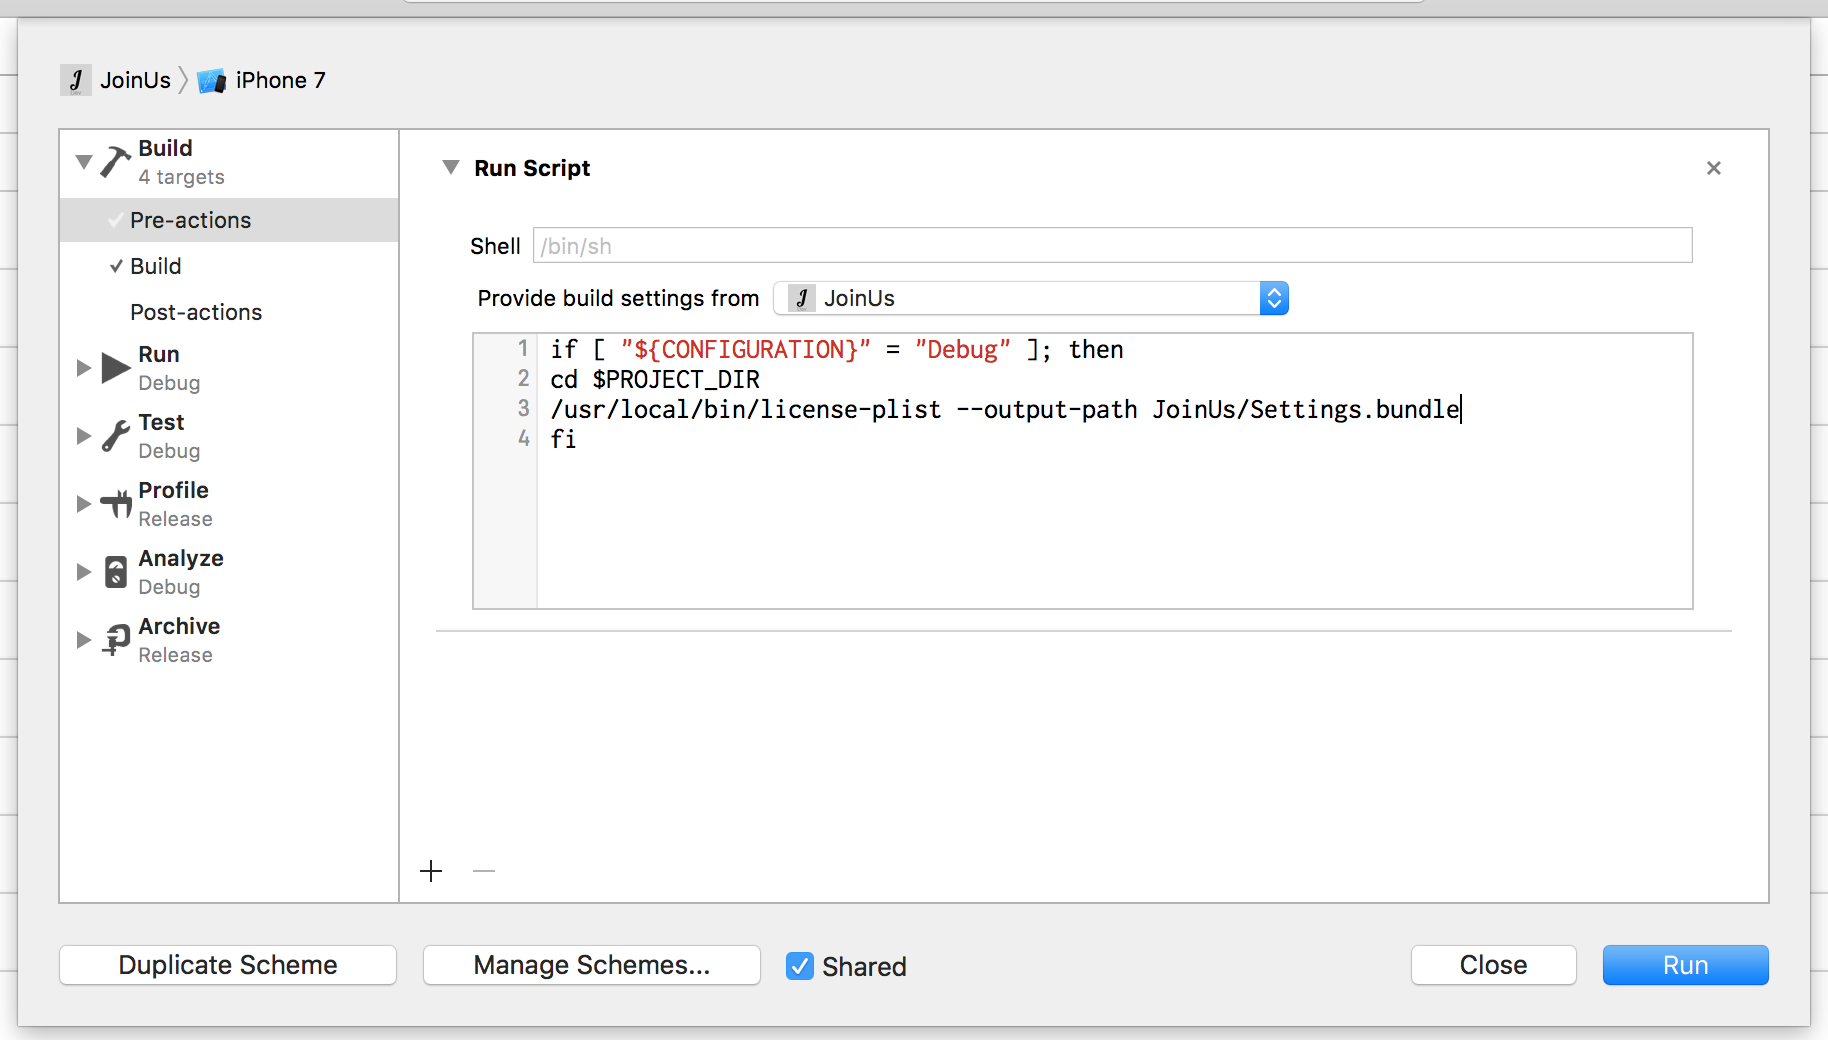
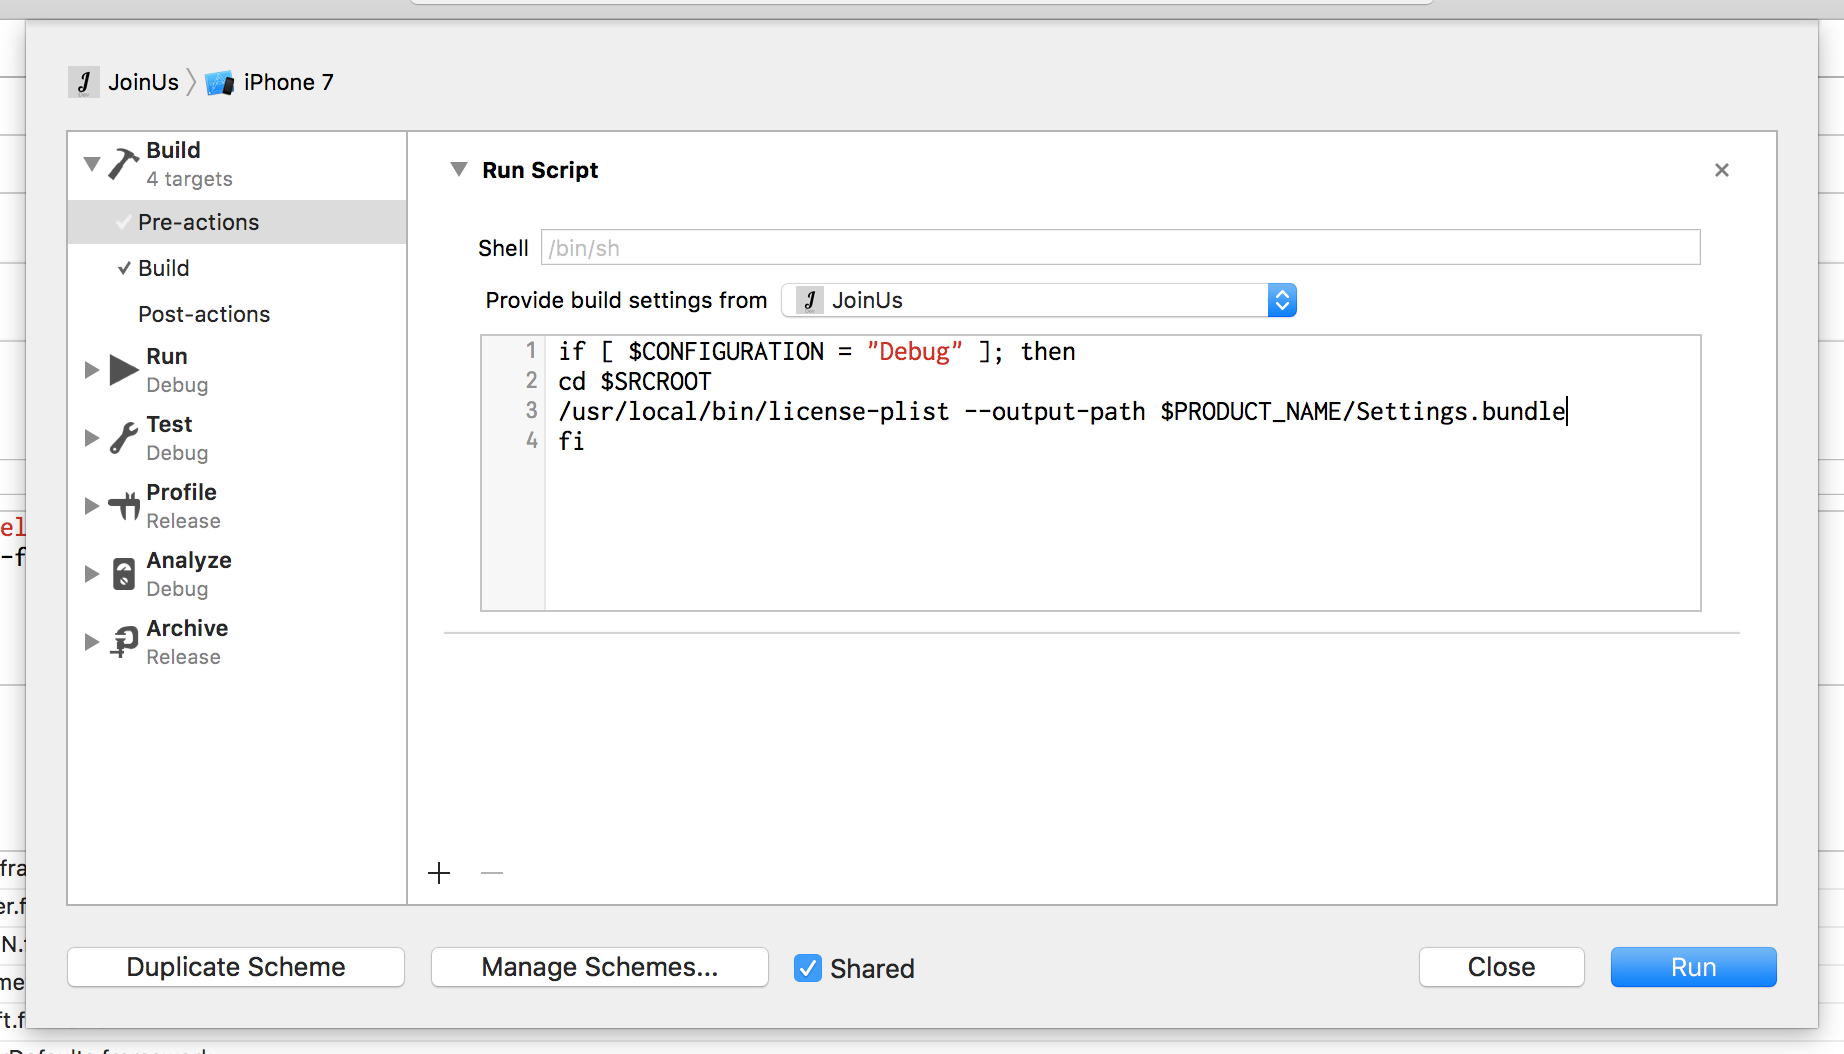
Enhance run script

diff --git a/README.md b/README.md
@@ -101,9 +101,9 @@ You can see options by `license-plist --help`.
 Add `Run Script` to `Build - Pre-actions`:
 
 ```sh
-if [ "${CONFIGURATION}" = "Debug" ]; then
-cd $PROJECT_DIR
-/usr/local/bin/license-plist --output-path YOUR_APP_ROOT_DIR/Settings.bundle
+if [ $CONFIGURATION = "Debug" ]; then
+cd $SRCROOT
+/usr/local/bin/license-plist --output-path $PRODUCT_NAME/Settings.bundle
 fi
 ```
 
